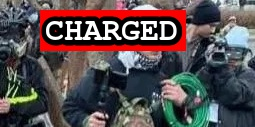
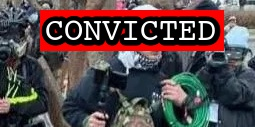
Latest import

Changed region(s): [[0.1373, 0.0709, 0.9059, 0.4252]]

diff --git a/docs/_suspects/eric-gerwatowski.md b/docs/_suspects/eric-gerwatowski.md
@@ -4,11 +4,11 @@ lastName: Gerwatowski
 hashtag: LordLongHair
 aka:
 residence: New York
-status: Indicted
+status: Convicted
 date: 2022-02-02
 charged: 2022-02-02
 indicted: 2022-04-13
-convicted:
+convicted: 2022-11-22
 acquitted:
 sentenced:
 dismissed:
@@ -31,7 +31,7 @@ raid:
 perpwalk:
 quote: "Let’s go!"
 title: Eric Gerwatowski charged on February 2nd, 2022
-description: Click for latest case details. Suspects innocent until proven guilty.
+description: Convicted on November 22, 2022. Click for latest case details.
 author: seditiontrack
 layout: suspect
 published: true
@@ -40,9 +40,16 @@ caseName: USA v. GERWATOWSKI
 judge: Jia M. Cobb
 videos:
 charges:
+  - code: 18 USC § 231(a)(3)
+    title: Obstruction of Law Enforcement During Civil Disorder
+    url: https://www.law.cornell.edu/uscode/text/18/231
+    felony: true
 sentence:
 ---
+
 - [News Report](https://www.newsweek.com/feds-arrest-jan-6-rioter-who-allegedly-grabbed-door-shouted-lets-go-1677359)
 - [Complaint](https://www.justice.gov/usao-dc/case-multi-defendant/file/1470321/download)
 - [Statement of Facts](https://www.justice.gov/usao-dc/case-multi-defendant/file/1470326/download)
-- [Indictment](https://extremism.gwu.edu/sites/g/files/zaxdzs2191/f/Eric%20Gerwatowski%20Indictment.pdf)
+- [Indictment](https://www.justice.gov/usao-dc/case-multi-defendant/file/1553456/download)
+- [Plea Agreement](https://www.justice.gov/usao-dc/case-multi-defendant/file/1553461/download)
+- [Statement of Offense](https://www.justice.gov/usao-dc/case-multi-defendant/file/1553466/download)

diff --git a/docs/_suspects/chase-allen.md b/docs/_suspects/chase-allen.md
@@ -4,16 +4,16 @@ lastName: Allen
 hashtag: BostonWhiteBeanAOM
 aka:
 residence: Massachusetts
-status: Charged
+status: Convicted
 date: 2021-06-30
 charged: 2021-06-30
 indicted:
-convicted:
+convicted: 2022-11-22
 acquitted:
 sentenced:
 dismissed:
 deceased:
-plea_hearing:
+plea_hearing: 2022-11-22
 trial_date:
 trial_type:
 sentencing:
@@ -31,16 +31,24 @@ raid:
 perpwalk:
 quote:
 title: Chase Allen charged on June 30, 2021
-description: Click for latest case details. Suspects innocent until proven guilty.
+description: Convicted on November 22, 2022. Click for latest case details.
 author: seditiontrack
 layout: suspect
 published: true
-caseNumber: 21-mj-0482
+caseNumber: 22-cr-0361
 caseName: USA v. ALLEN
 judge: G. M. Harvey
 videos:
 charges:
+  - code: 40 USC § 5104(e)(2)(F)
+    title: Act of physical violence on Capitol grounds
+    url: https://www.law.cornell.edu/uscode/text/40/5104
+    felony: false
 sentence:
 ---
+
 - [News Report](https://boston.cbslocal.com/2021/06/30/capitol-riot-arrests-fbi-boston-noah-bacon-chase-allen-somerville-seekonk/)
 - [Statement of Facts](https://www.justice.gov/usao-dc/case-multi-defendant/file/1408341/download)
+- [Information](https://www.justice.gov/usao-dc/case-multi-defendant/file/1553451/download)
+- [Plea Agreement](https://www.justice.gov/usao-dc/case-multi-defendant/file/1553441/download)
+- [Statement of Offense](https://www.justice.gov/usao-dc/case-multi-defendant/file/1553446/download)

diff --git a/docs/_suspects/menachem-cohen.md b/docs/_suspects/menachem-cohen.md
@@ -1,0 +1,47 @@
+---
+name: Menachem Cohen
+lastName: Cohen
+hashtag:
+aka:
+residence:
+status: Charged
+date: 2022-11-15
+charged: 2022-11-15
+indicted:
+convicted:
+acquitted:
+sentenced:
+dismissed:
+deceased:
+plea_hearing:
+trial_date:
+trial_type:
+sentencing:
+status_conference:
+age:
+occupation:
+affiliations:
+jurisdiction: Federal
+image: /images/preview/menachem-cohen.jpg
+suspect: menachem-cohen.jpg
+booking:
+courtroom:
+courthouse:
+raid:
+perpwalk:
+quote:
+title: Menachem Cohen charged on November 15th, 2022
+description: Click for latest case details. Suspects innocent until proven guilty.
+author: seditiontrack
+layout: suspect
+published: false
+caseNumber: 
+caseName:
+judge:
+videos:
+charges:
+sentence:
+---
+- [News Report]()
+- [Complaint](https://www.justice.gov/usao-dc/case-multi-defendant/file/1553206/download)
+- [Statement of Facts](https://www.justice.gov/usao-dc/case-multi-defendant/file/1553211/download)

diff --git a/docs/_suspects/william-watson.md b/docs/_suspects/william-watson.md
@@ -15,7 +15,7 @@ dismissed:
 deceased:
 plea_hearing:
 trial_date: 2022-11-18
-trial_type: Bench Trial
+trial_type: Stipulated Bench Trial
 sentencing:
 status_conference:
 age: 23
@@ -42,6 +42,7 @@ videos:
 charges:
 sentence:
 ---
+
 - [News Report](https://www.wate.com/news/auburn-man-in-federal-custody-following-u-s-capitol-riot/)
-- [Statement of Facts](https://www.justice.gov/usao-dc/case-multi-defendant/file/1371561/download)
+- [Statement of Facts](https://www.justice.gov/usao-dc/case-multi-defendant/file/1553301/download)
 - [Indictment](https://www.justice.gov/usao-dc/case-multi-defendant/file/1423471/download)
